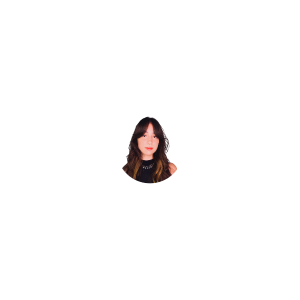
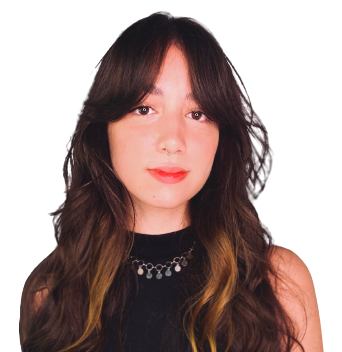
ajustes nas telas do projeto

diff --git a/fase4cap5/estilos/inicio2.css b/fase4cap5/estilos/inicio2.css
@@ -1,0 +1,122 @@
+@charset "UTF-8" ;
+
+body {
+    background-color: #000000;
+}
+
+#inicio {
+    background-color: #202020;
+    color: aliceblue;
+    width: 370px;
+    display: flex;
+    position: absolute;
+    top: 50%;
+    left: 50%;
+    transform: translate(-50%, -50%);
+    box-shadow: 1px 5px 30px rgba(0, 0, 0, 0.534);
+}
+
+#foto {
+    width: 75px;
+    margin: 26px;
+    margin-top: -50px;
+    margin-left: 200px;
+    border-radius: 50%;
+    box-shadow: 2px 2px 5px rgba(0, 0, 0, 0.400);
+    box-sizing: border-box;
+}
+
+h5 {
+    margin-top: 90px;
+    margin-left: 40px;
+    color: #FF914D;
+    font-size: 1.3em;
+} 
+
+p {
+    text-align: center;
+    margin-bottom: 30px;
+}
+
+.dropdown {
+    text-align: center;
+    margin-bottom: 0px;
+    margin-bottom: 50px;
+}
+
+#botao {
+    background-color: #FF914D;
+}
+
+#menu {
+    overflow-y: scroll;
+    height: 108px;
+}
+
+.caixas {
+    text-align: right;
+    background-color: #FF914D ;
+    height: 70px;
+    margin-bottom: 40px;
+    margin-left: 15px;
+    margin-right: 15px;
+    border-radius: 5px;
+}
+
+p.caixa {
+    text-align: right;
+    margin-top: 5px;
+    margin-bottom: 10px;
+    margin-left: 10px;
+    margin-right: 10px;
+}
+
+#saldo {
+    text-align: center;
+    background-color: #FF914D ;
+    height: 70px;
+    margin-bottom: 165px;
+    margin-left: 15px;
+    margin-right: 15px;
+    border-radius: 5px;
+}
+
+h4 {
+    margin-top: 10px;
+    margin-bottom: 5px;
+    margin-left: 10px;
+    margin-right: 10px;
+    font-size: 1.2em;
+}
+
+h3 {
+    margin-top: 10px;
+    margin-bottom: 5px;
+    margin-left: 10px;
+    margin-right: 10px;
+    font-size: 1.2em;
+}
+
+h2 {
+    margin-top: 10px;
+    margin-bottom: 5px;
+    margin-left: 10px;
+    margin-right: 10px;
+    font-size: 1.2em;
+}
+
+#img-receita {
+    height: 40px;
+    display: flex;
+    justify-content: left;
+    margin-top: -56px;
+    margin-left: 30px;
+}
+
+#img-despesa {
+    height: 40px;
+    display: flex;
+    justify-content: left;
+    margin-top: -56px;
+    margin-left: 30px;
+}

diff --git a/fase4cap5/estilos/inicio.css b/fase4cap5/estilos/inicio.css
@@ -1,0 +1,122 @@
+@charset "UTF-8" ;
+
+body {
+    background-color: #000000;
+}
+
+#inicio {
+    background-color: #202020;
+    color: aliceblue;
+    width: 370px;
+    display: flex;
+    position: absolute;
+    top: 50%;
+    left: 50%;
+    transform: translate(-50%, -50%);
+    box-shadow: 1px 5px 30px rgba(0, 0, 0, 0.534);
+}
+
+#foto {
+    width: 75px;
+    margin: 26px;
+    margin-top: -50px;
+    margin-left: 263px;
+    border-radius: 50%;
+    box-shadow: 2px 2px 5px rgba(0, 0, 0, 0.400);
+    box-sizing: border-box;
+}
+
+h5 {
+    margin-top: 90px;
+    margin-left: 5px;
+    color: #FF914D;
+    font-size: 1.3em;
+} 
+
+p {
+    text-align: center;
+    margin-bottom: 30px;
+}
+
+.dropdown {
+    text-align: center;
+    margin-bottom: 0px;
+    margin-bottom: 50px;
+}
+
+#botao {
+    background-color: #FF914D;
+}
+
+#menu {
+    overflow-y: scroll;
+    height: 108px;
+}
+
+.caixas {
+    text-align: right;
+    background-color: #FF914D ;
+    height: 70px;
+    margin-bottom: 40px;
+    margin-left: 15px;
+    margin-right: 15px;
+    border-radius: 5px;
+}
+
+p.caixa {
+    text-align: right;
+    margin-top: 5px;
+    margin-bottom: 10px;
+    margin-left: 10px;
+    margin-right: 10px;
+}
+
+#saldo {
+    text-align: center;
+    background-color: #FF914D ;
+    height: 70px;
+    margin-bottom: 165px;
+    margin-left: 15px;
+    margin-right: 15px;
+    border-radius: 5px;
+}
+
+h4 {
+    margin-top: 10px;
+    margin-bottom: 5px;
+    margin-left: 10px;
+    margin-right: 10px;
+    font-size: 1.2em;
+}
+
+h3 {
+    margin-top: 10px;
+    margin-bottom: 5px;
+    margin-left: 10px;
+    margin-right: 10px;
+    font-size: 1.2em;
+}
+
+h2 {
+    margin-top: 10px;
+    margin-bottom: 5px;
+    margin-left: 10px;
+    margin-right: 10px;
+    font-size: 1.2em;
+}
+
+#img-receita {
+    height: 40px;
+    display: flex;
+    justify-content: left;
+    margin-top: -56px;
+    margin-left: 30px;
+}
+
+#img-despesa {
+    height: 40px;
+    display: flex;
+    justify-content: left;
+    margin-top: -56px;
+    margin-left: 30px;
+}

diff --git a/fase4cap5/login.html b/fase4cap5/login.html
@@ -7,7 +7,7 @@
     <title>4 U MONEY</title>
     <link rel="shortcut icon" href="imagens/icone.png" type="image/x-icon">
     <link href="https://cdn.jsdelivr.net/npm/bootstrap@5.2.3/dist/css/bootstrap.min.css" rel="stylesheet" integrity="sha384-rbsA2VBKQhggwzxH7pPCaAqO46MgnOM80zW1RWuH61DGLwZJEdK2Kadq2F9CUG65" crossorigin="anonymous">
-    <link rel="stylesheet" href="estilos/estilo4.css">
+    <link rel="stylesheet" href="estilos/login.css">
 </head>
 <body>
     <h1>Faça login na sua conta!</h1>
@@ -23,6 +23,12 @@
                     <label for="isenha" class="form-label">Senha</label>
                     <input type="password" class="form-control" id="isenha" required minlength="8" placeholder="Insira sua senha">
                   </div>
+
+                  <label for="icheck">
+                    <input type="checkbox" name="" id="icheck"> 
+                    <i></i>
+                    <span>Lembrar de mim</span>
+                  </label>
 
                   <div class="d-grid gap-2">
                     <button id="enviar" type="submit" class="btn btn-warning" type="button">Login</button>

diff --git a/fase4cap5/inicio2.html b/fase4cap5/inicio2.html
@@ -7,13 +7,13 @@
     <title>4 U MONEY</title>
     <script src="https://cdn.jsdelivr.net/npm/bootstrap@5.1.2/dist/js/bootstrap.bundle.min.js"></script>
     <link href="https://cdn.jsdelivr.net/npm/bootstrap@5.2.3/dist/css/bootstrap.min.css" rel="stylesheet" integrity="sha384-rbsA2VBKQhggwzxH7pPCaAqO46MgnOM80zW1RWuH61DGLwZJEdK2Kadq2F9CUG65" crossorigin="anonymous">
-    <link rel="stylesheet" href="estilos/inicio.css">
+    <link rel="stylesheet" href="estilos/inicio2.css">
 </head>
 <body></body>
     <div class="card" id="inicio">
         <div class="card-body">
-          <h5 class="card-title">Seja bem-vinda, Gabrielle!</h5>
-          <img id="foto" src="imagens/adc-foto.png" alt="">
+          <h5 class="card-title">Olá, Gabrielle!</h5>
+          <img id="foto" src="imagens/eu.png" alt="">
         </div>
 
         <div class="dropdown">
@@ -53,8 +53,6 @@
           <h2>Saldo geral</h2>
           <p>R$ 0,00</p>
         </div>
-      </div>
-      
-      
+      </div>     
 </body>
 </html>

diff --git a/fase4cap5/entrar.html b/fase4cap5/entrar.html
@@ -7,7 +7,7 @@
     <title>4 U MONEY</title>
     <link rel="shortcut icon" href="imagens/icone.png" type="image/x-icon">
     <link href="https://cdn.jsdelivr.net/npm/bootstrap@5.2.3/dist/css/bootstrap.min.css" rel="stylesheet" integrity="sha384-rbsA2VBKQhggwzxH7pPCaAqO46MgnOM80zW1RWuH61DGLwZJEdK2Kadq2F9CUG65" crossorigin="anonymous">
-    <link rel="stylesheet" href="estilos/estilo1.css">
+    <link rel="stylesheet" href="estilos/entrar.css">
 </head>
 <body>
     <div class="card" id="forms">

diff --git a/fase4cap5/cadastro.html b/fase4cap5/cadastro.html
@@ -7,7 +7,7 @@
     <title>4 U MONEY</title>
     <link rel="shortcut icon" href="imagens/icone.png" type="image/x-icon">
     <link href="https://cdn.jsdelivr.net/npm/bootstrap@5.2.3/dist/css/bootstrap.min.css" rel="stylesheet" integrity="sha384-rbsA2VBKQhggwzxH7pPCaAqO46MgnOM80zW1RWuH61DGLwZJEdK2Kadq2F9CUG65" crossorigin="anonymous">
-    <link rel="stylesheet" href="estilos/estilo2.css">
+    <link rel="stylesheet" href="estilos/cadastro.css">
 </head>
 <body>
     <h1>Crie sua conta!</h1>

diff --git a/fase4cap5/estilos/login.css b/fase4cap5/estilos/login.css
@@ -7,7 +7,7 @@ body {
 h1 {
     color: #FF914D;
     text-align: center;
-    padding-top: 150px;
+    padding-top: 125px;
 }
 
 #forms {
@@ -27,4 +27,8 @@ h1 {
 h2 {
     color: #FF914D;
     text-align: center;
+}
+
+label {
+    padding-bottom: 10px;
 }

diff --git a/fase4cap5/estilos/entrar.css b/fase4cap5/estilos/entrar.css
@@ -20,7 +20,7 @@ p {
 #forms {
     background-color: #202020;
     color: aliceblue;
-    width: 350px;
+    width: 370px;
     display: flex;
     position: absolute;
     top: 50%;

diff --git a/fase4cap5/estilos/cadastro.css b/fase4cap5/estilos/cadastro.css
@@ -8,7 +8,7 @@ body {
 h1 {
     color: #FF914D;
     text-align: center;
-    padding-top: 90px;
+    padding-top: 65px;
 }
 
 #forms {
